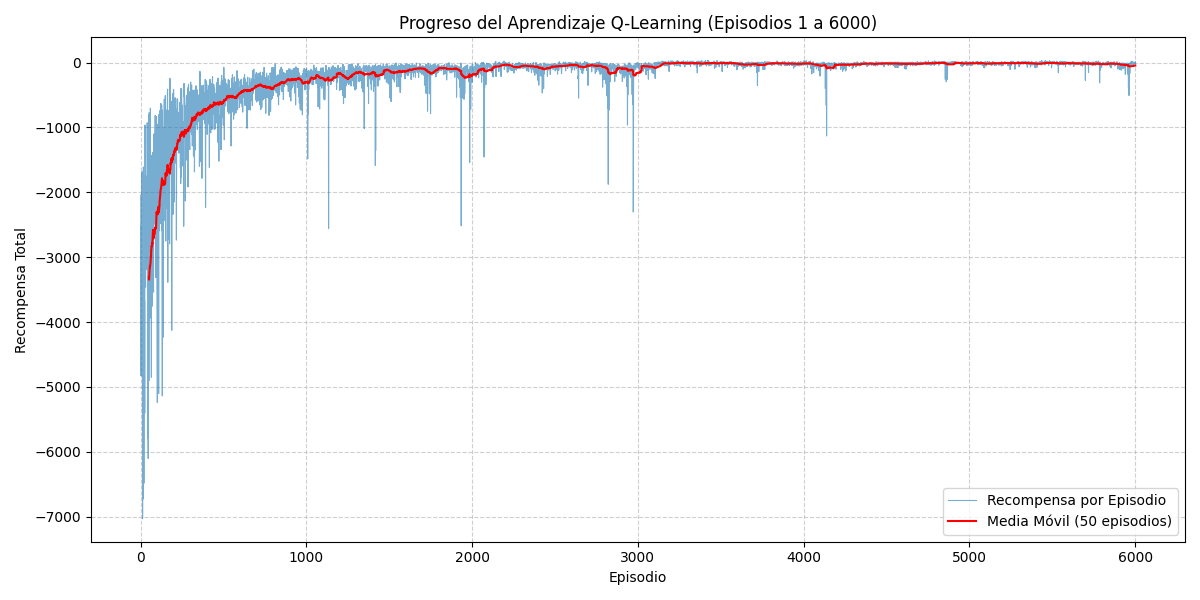
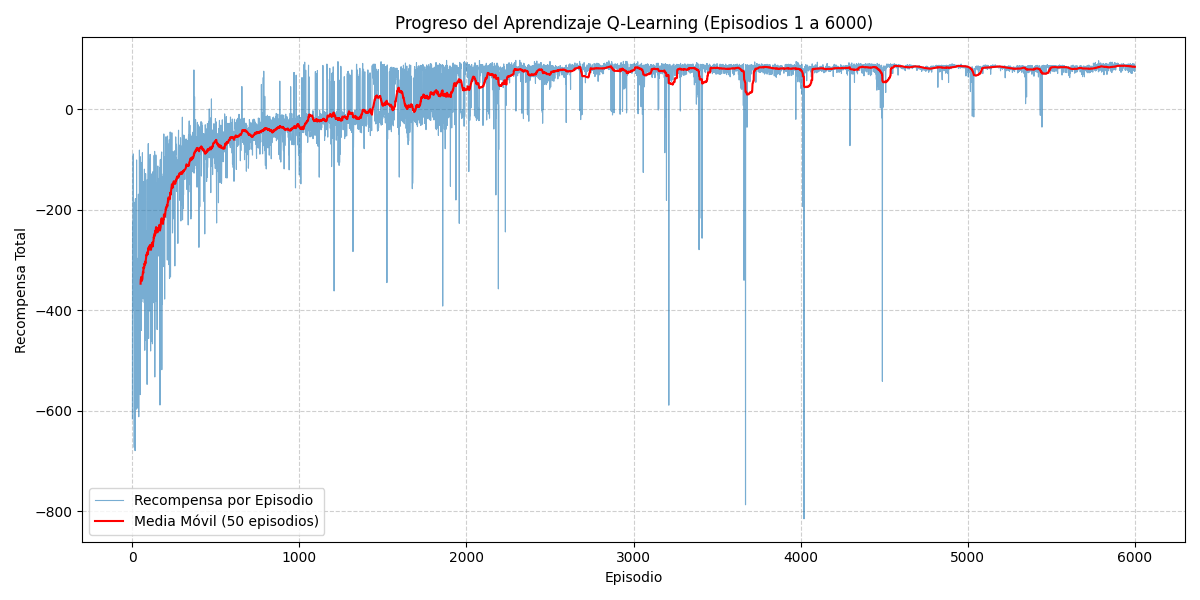
succeded mountain car :)

diff --git a/1CEIABDTA - 7RO/Programación de Inteligencia Artificial/TAREA 9 - DQN MOUNTAIN CAR CONTINUOUS/Mountain_Car.py b/1CEIABDTA - 7RO/Programación de Inteligencia Artificial/TAREA 9 - DQN MOUNTAIN CAR CONTINUOUS/Mountain_Car.py
@@ -36,7 +36,7 @@ VELOCITY_PENALTY_SENSITIVITY: float = 1100.0 # Sensibilidad a la velocidad (cerc
 # Parámetros de Discretización
 STATE_BINS_COUNT: Tuple[int, int] = (20, 20) # (posición, velocidad)
 NUM_ACTIONS: int = 5
-ACTION_MAP: List[float] = [-1.0, -0.5, 0.0, 0.5, 1.0]
+ACTION_MAP: List[float] = [-0.7, -0.5, 0.0, 0.5, 0.7]
 
 
 # --- Parámetros de Grabación de Vídeo ---
